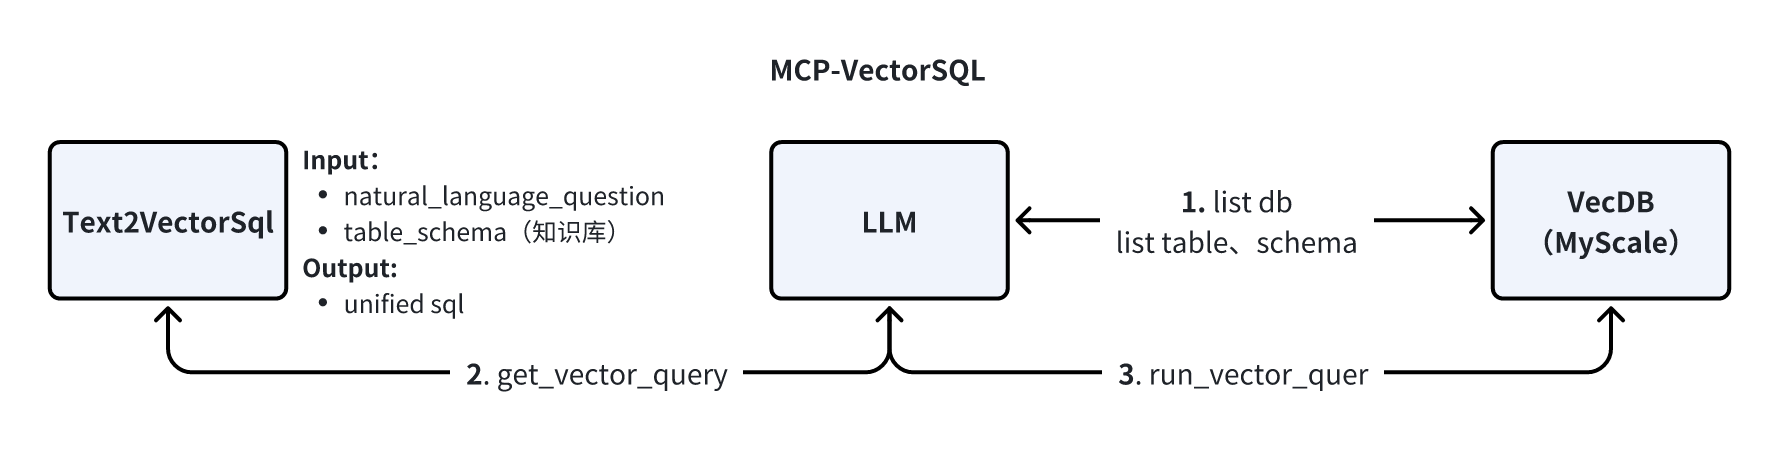
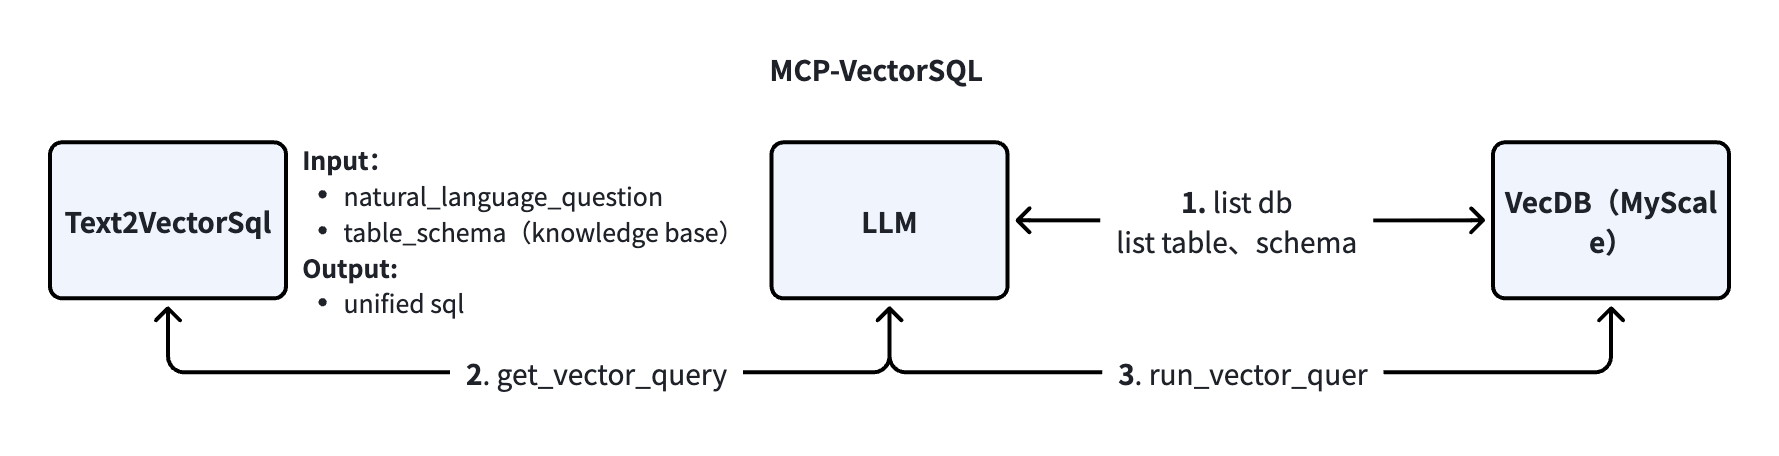
fix image

diff --git a/README.md b/README.md
@@ -6,7 +6,7 @@ MCP-VectorSQL is a powerful vector SQL generation tool that converts natural lan
 
 ## Architecture
 
-![Text2VectorSQL Evaluation Process](./benchmark/figures/mcp_vector_sql.png)
+![Text2VectorSQL Evaluation Process](./benchmark/figures/Architecture.png)
 
 The architecture consists of three main components:
 
